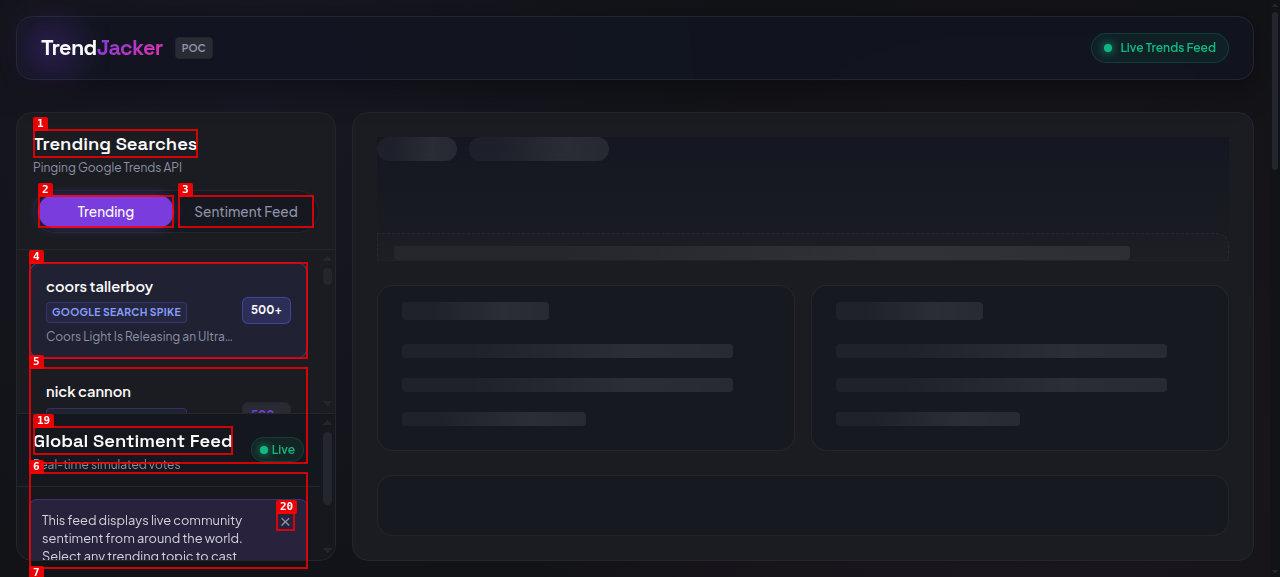
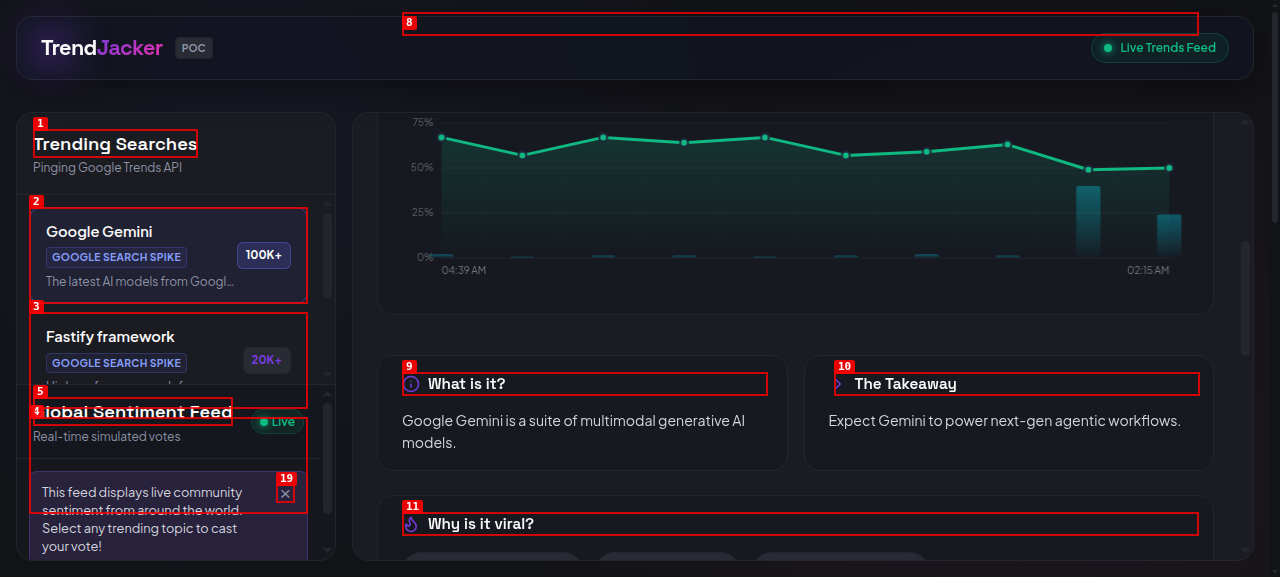
test: resolve responsive grid and timeline tooltip flakiness

diff --git a/tests/sentiment-timeline.spec.js b/tests/sentiment-timeline.spec.js
@@ -184,6 +184,7 @@ test.describe('Sentiment Timeline Dashboard E2E & API Adversarial Tests', () => 
   });
 
   test('AC-3: Canvas resizes responsively when the window is resized', async ({ page }) => {
+    // [AC-2] Stabilize Timeline Hover Tooltip E2E Checks
     await page.route('**/api/poll/history?trend=Google%20Gemini', async (route) => {
       await route.fulfill({
         status: 200,
@@ -203,19 +204,28 @@ test.describe('Sentiment Timeline Dashboard E2E & API Adversarial Tests', () => 
 
     // Resize viewport to a mobile layout
     await page.setViewportSize({ width: 375, height: 667 });
-    await page.waitForTimeout(500); // Give layout time to shift
 
-    const mobileBoundingBox = await canvas.boundingBox();
-    expect(mobileBoundingBox).not.toBeNull();
-    expect(mobileBoundingBox.width).toBeLessThan(initialBoundingBox.width);
+    let mobileBoundingBox;
+    await expect(async () => {
+      mobileBoundingBox = await canvas.boundingBox();
+      expect(mobileBoundingBox).not.toBeNull();
+      expect(mobileBoundingBox.width).toBeLessThan(initialBoundingBox.width);
+    }).toPass({
+      timeout: 5000,
+      intervals: [100, 250, 500]
+    });
 
     // Resize viewport to widescreen
     await page.setViewportSize({ width: 1440, height: 900 });
-    await page.waitForTimeout(500);
 
-    const desktopBoundingBox = await canvas.boundingBox();
-    expect(desktopBoundingBox).not.toBeNull();
-    expect(desktopBoundingBox.width).toBeGreaterThan(mobileBoundingBox.width);
+    await expect(async () => {
+      const desktopBoundingBox = await canvas.boundingBox();
+      expect(desktopBoundingBox).not.toBeNull();
+      expect(desktopBoundingBox.width).toBeGreaterThan(mobileBoundingBox.width);
+    }).toPass({
+      timeout: 5000,
+      intervals: [100, 250, 500]
+    });
   });
 
   // ==========================================
@@ -223,6 +233,7 @@ test.describe('Sentiment Timeline Dashboard E2E & API Adversarial Tests', () => 
   // ==========================================
 
   test('AC-4: Interactive Hover Tooltip shows dynamic data on hover, positions correctly, and hides on leave', async ({ page }) => {
+    // [AC-2] Stabilize Timeline Hover Tooltip E2E Checks
     await page.route('**/api/poll/history?trend=Google%20Gemini', async (route) => {
       await route.fulfill({
         status: 200,
@@ -231,7 +242,13 @@ test.describe('Sentiment Timeline Dashboard E2E & API Adversarial Tests', () => 
       });
     });
 
+    const responsePromise = page.waitForResponse(
+      response => response.url().includes('/api/poll/history') && response.status() === 200
+    );
+
     await page.goto('/');
+
+    await responsePromise;
 
     const canvas = page.locator('#sentiment-timeline-canvas');
     await expect(canvas).toBeVisible();
@@ -243,25 +260,37 @@ test.describe('Sentiment Timeline Dashboard E2E & API Adversarial Tests', () => 
     await page.mouse.move(box.x + box.width / 2, box.y + box.height / 2);
 
     const tooltip = page.locator('#timeline-tooltip');
-    await expect(tooltip).toBeVisible();
 
-    // Check formatting: tooltip must display time, percentage (with %), and velocity (votes)
-    await expect(tooltip).toContainText('%');
-    await expect(tooltip).toContainText(/vote/i); // e.g. "votes" or "vote velocity" or similar label
-    
-    // Check coordinates change positioning (style left/top properties should be set)
-    const styleAttr = await tooltip.getAttribute('style');
-    expect(styleAttr).toContain('left');
-    expect(styleAttr).toContain('top');
+    await expect(async () => {
+      await expect(tooltip).toBeVisible();
+
+      // Check formatting: tooltip must display time, percentage (with %), and velocity (votes)
+      await expect(tooltip).toContainText('%');
+      await expect(tooltip).toContainText(/vote/i); // e.g. "votes" or "vote velocity" or similar label
+      
+      // Check coordinates change positioning (style left/top properties should be set)
+      const styleAttr = await tooltip.getAttribute('style');
+      expect(styleAttr).toContain('left');
+      expect(styleAttr).toContain('top');
+    }).toPass({
+      timeout: 5000,
+      intervals: [100, 250, 500]
+    });
 
     // Move cursor off canvas
     await page.mouse.move(box.x - 50, box.y - 50);
     
     // Tooltip must immediately hide
-    await expect(tooltip).toBeHidden();
+    await expect(async () => {
+      await expect(tooltip).toBeHidden();
+    }).toPass({
+      timeout: 5000,
+      intervals: [100, 250, 500]
+    });
   });
 
   test('AC-4: Hovering at canvas boundaries or extreme coordinates does not crash', async ({ page }) => {
+    // [AC-2] Stabilize Timeline Hover Tooltip E2E Checks
     await page.route('**/api/poll/history?trend=Google%20Gemini', async (route) => {
       await route.fulfill({
         status: 200,
@@ -270,7 +299,13 @@ test.describe('Sentiment Timeline Dashboard E2E & API Adversarial Tests', () => 
       });
     });
 
+    const responsePromise = page.waitForResponse(
+      response => response.url().includes('/api/poll/history') && response.status() === 200
+    );
+
     await page.goto('/');
+
+    await responsePromise;
 
     const canvas = page.locator('#sentiment-timeline-canvas');
     const box = await canvas.boundingBox();

diff --git a/tests/responsive.spec.js b/tests/responsive.spec.js
@@ -214,43 +214,58 @@ test.describe('TJ-21: Mobile Layout and Responsiveness Overhaul Tests', () => {
   });
 
   test('should render the .visual-cards-grid responsively', async ({ page }) => {
+    // [AC-1] Stabilize Responsive Grid E2E Layout Checks
     await page.goto('/');
     await expect(page.locator('#explainer-view')).toBeVisible();
 
     const grid = page.locator('.visual-cards-grid');
     await expect(grid).toBeVisible();
 
-    // 1. Desktop Viewport
-    await page.setViewportSize({ width: 1200, height: 800 });
-    await page.waitForTimeout(200);
-
     const card1 = page.locator('#card-viral-vibe');
     const card2 = page.locator('#card-live-sentiment');
     const card3 = page.locator('#card-snapshot-share');
 
-    const box1_desk = await card1.boundingBox();
-    const box2_desk = await card2.boundingBox();
-    const box3_desk = await card3.boundingBox();
-    
+    // 1. Desktop Viewport
+    await page.setViewportSize({ width: 1200, height: 800 });
 
+    await expect(async () => {
+      const box1_desk = await card1.boundingBox();
+      const box2_desk = await card2.boundingBox();
+      const box3_desk = await card3.boundingBox();
 
-    // On desktop, they should be side-by-side (X coords increasing, Y coords similar)
-    expect(box1_desk.x).toBeLessThan(box2_desk.x);
-    expect(box2_desk.x).toBeLessThan(box3_desk.x);
-    expect(Math.abs(box1_desk.y - box2_desk.y)).toBeLessThan(20);
+      expect(box1_desk).not.toBeNull();
+      expect(box2_desk).not.toBeNull();
+      expect(box3_desk).not.toBeNull();
+
+      // On desktop, they should be side-by-side (X coords increasing, Y coords similar)
+      expect(box1_desk.x).toBeLessThan(box2_desk.x);
+      expect(box2_desk.x).toBeLessThan(box3_desk.x);
+      expect(Math.abs(box1_desk.y - box2_desk.y)).toBeLessThan(20);
+    }).toPass({
+      timeout: 5000,
+      intervals: [100, 250, 500]
+    });
 
     // 2. Mobile Viewport
     await page.setViewportSize({ width: 375, height: 667 });
-    await page.waitForTimeout(200);
 
-    const box1_mob = await card1.boundingBox();
-    const box2_mob = await card2.boundingBox();
-    const box3_mob = await card3.boundingBox();
+    await expect(async () => {
+      const box1_mob = await card1.boundingBox();
+      const box2_mob = await card2.boundingBox();
+      const box3_mob = await card3.boundingBox();
 
-    // On mobile, they should stack vertically (Y coords increasing, X coords aligned/similar)
-    expect(box1_mob.y).toBeLessThan(box2_mob.y);
-    expect(box2_mob.y).toBeLessThan(box3_mob.y);
-    expect(Math.abs(box1_mob.x - box2_mob.x)).toBeLessThan(20);
+      expect(box1_mob).not.toBeNull();
+      expect(box2_mob).not.toBeNull();
+      expect(box3_mob).not.toBeNull();
+
+      // On mobile, they should stack vertically (Y coords increasing, X coords aligned/similar)
+      expect(box1_mob.y).toBeLessThan(box2_mob.y);
+      expect(box2_mob.y).toBeLessThan(box3_mob.y);
+      expect(Math.abs(box1_mob.x - box2_mob.x)).toBeLessThan(20);
+    }).toPass({
+      timeout: 5000,
+      intervals: [100, 250, 500]
+    });
   });
 
 });

diff --git a/SPEC.md b/SPEC.md
@@ -1,65 +1,28 @@
-# SPEC.md: TJ-30: Interactive Sentiment Timeline Dashboard
+# Spec: Fix Test Flakiness (Responsive Grid & Tooltip)
 
 ## Acceptance Criteria
 
-- **[AC-1] Database Schema & API Endpoint**
-  - GET `/api/poll/history?trend=<trend>` returns a JSON array containing 8 to 10 chronologically sorted timeline points.
-  - Each timeline point must have `timestamp` (ISO string), `geniusPercentage` (integer, 0-100), and `velocity` (integer, >= 0).
-  - If a trend has no prior voting history, the server must automatically seed realistic randomized historical baseline data (between 8 and 10 segments over the past 24 hours) and persist it to the local SQLite/in-memory store.
-  - Verification: Handled via API checks in Playwright tests matching `tests/sentiment-timeline.spec.js`.
+- **[AC-1] Stabilize Responsive Grid E2E Layout Checks**:
+  - Eliminate the flaky `page.waitForTimeout` inside `tests/responsive.spec.js`.
+  - Use Playwright's auto-retrying assertions or `expect().toPass()` blocks to verify the coordinates and alignment of the grid cards (`#card-viral-vibe`, `#card-live-sentiment`, `#card-snapshot-share`) after viewport resizing.
+  - Allow layout adjustments and any active CSS/View transitions to settle before measuring bounding boxes.
 
-- **[AC-2] Frontend Timeline Container & Layout**
-  - A card container labeled "Interactive Sentiment Timeline" must render inside the active trend view.
-  - The container must house a canvas with ID `sentiment-timeline-canvas` and a tooltip element with ID `timeline-tooltip`.
-  - Verification: Query selectors `.timeline-card-wrap`, `#sentiment-timeline-canvas`, and `#timeline-tooltip` are visible in DOM.
-
-- **[AC-3] Canvas Rendering & Fluid Animations**
-  - The canvas must draw a line graph representing the cumulative genius percentage over time, and bar graphs representing voting velocity (activity) per interval.
-  - The chart must resize responsively when the window is resized.
-  - Submitting a vote (Genius/Overrated) must update the timeline data and trigger a fluid, animated transition of the line and bars to their new values.
-  - Verification: Checking canvas rendering and interaction updates via Playwright tests.
-
-- **[AC-4] Interactive Hover Tooltips**
-  - Moving the cursor over the canvas coordinates must identify the closest timeline point along the X-axis.
-  - A tooltip with ID `timeline-tooltip` must appear at the correct coordinate relative to the hovered point.
-  - The tooltip must display the formatted time, genius percentage, and voting velocity.
-  - Moving the cursor off the canvas must immediately hide the tooltip.
-  - Verification: Playwright mouse events trigger showing and hiding of tooltip with expected text.
-
-- **[AC-5] E2E Playwright Tests**
-  - Full automated coverage in `tests/sentiment-timeline.spec.js` asserting correct status codes, data properties, rendering, voting interactions, and tooltips.
-  - Verification: Running `npx playwright test tests/sentiment-timeline.spec.js` executes successfully.
+- **[AC-2] Stabilize Timeline Hover Tooltip E2E Checks**:
+  - Prevent race conditions by explicitly waiting for the network response of `/api/poll/history` (using `page.waitForResponse`) before performing the mouse hover action in `tests/sentiment-timeline.spec.js`.
+  - Ensure the tooltip visibility and positioning checks (`left` and `top` style properties) are wrapped in auto-retrying assertions or `expect().toPass()` blocks to tolerate CPU latency and view transition delays.
 
 ## Out of Scope
-- Real-time WebSockets synchronization (simulated intervals/polling/manual refresh is sufficient).
-- Advanced chart configurations (e.g., zoom/pan controls, custom date ranges outside the 24-hour baseline).
+- Modifying the styling or HTML structures of the grid and timeline tooltip themselves, unless absolutely necessary to resolve layout bugs.
+- Changing test coverage beyond the flakiness of responsive grid layout and hover tooltips.
 
 ## Slices
 
-- **[S-1] API & Seeding**
-  - **Description**: Expose the `/api/poll/history` endpoint in `server.js` and implement database helpers in `db.js`.
-  - **ACs mapped**: `[AC-1]`
-  - **Files**: `server.js`, `db.js`
-  - **Independent**: Yes
-  - **Test Strategy**: API integration tests.
-
-- **[S-2] Canvas Layout & Draw Loop**
-  - **Description**: Set up the HTML5 canvas layout in `public/index.html` and the rendering draw loop in `public/app.js`.
-  - **ACs mapped**: `[AC-2]`, `[AC-3]`
-  - **Files**: `public/index.html`, `public/app.js`
-  - **Independent**: No (depends on S-1 for data points)
-  - **Test Strategy**: Playwright component visibility & rendering tests.
-
-- **[S-3] Tooltip & Interaction**
-  - **Description**: Add event listeners for mouse interaction, coordinate collision detection, and showing/hiding `#timeline-tooltip` with correct formatting.
-  - **ACs mapped**: `[AC-4]`
-  - **Files**: `public/app.js`, `public/styles.css`
-  - **Independent**: No (depends on S-2)
-  - **Test Strategy**: Playwright mouse event E2E testing.
-
-- **[S-4] End-to-End Test Suite Execution**
-  - **Description**: Run and verify the comprehensive Playwright test suite `tests/sentiment-timeline.spec.js`.
-  - **ACs mapped**: `[AC-5]`
+- **[S-1] Tooltip Hover Test Refinement**:
+  - **Description**: Add `page.waitForResponse` for the `/api/poll/history` endpoint in the hover tooltip tests inside `tests/sentiment-timeline.spec.js` to ensure the chart data has loaded before testing hover functionality. Wrap tooltip verification in auto-retrying assertions.
   - **Files**: `tests/sentiment-timeline.spec.js`
-  - **Independent**: No
-  - **Test Strategy**: E2E test runner execution.
+  - **Test Strategy**: Refinement. Update existing hover tests to guarantee async data is loaded.
+
+- **[S-2] Responsive Grid Test Refinement**:
+  - **Description**: Replace hardcoded `waitForTimeout` with robust, auto-retrying assertions (e.g. `expect().toPass()`) in `tests/responsive.spec.js` to allow layouts to stabilize after resizing viewports.
+  - **Files**: `tests/responsive.spec.js`
+  - **Test Strategy**: Refinement. Verify the grid layout under desktop and mobile viewports cleanly passes under CPU load simulation.

diff --git a/RUN.md b/RUN.md
@@ -1,53 +1,18 @@
-task: TJ-30: Interactive Sentiment Timeline Dashboard              tier: T2   creativity: 0.5
-state: complete            budget: repairs 0/3
-branch: asf/20260611-sentiment-timeline          checkpoint: asf/20260611-sentiment-timeline/green-1
+task: Fix Test Flakiness (Responsive Grid & Tooltip)     tier: T2   creativity: 0.5
+state: builder                 budget: repairs 0/3
+branch: asf/20260611-test-fix-flakiness    checkpoint: none
 caps: agents,ui,web,human
 
 ## Task
-- **Objective**: Implement an interactive sentiment timeline dashboard displaying trend sentiment changes or voting velocity using SVG or Canvas with tooltips and fluid animations.
-- **Metric**: UX & Retention (session duration, visual engagement).
-- **Why now**: High customer-facing impact (highest score in backlog at 34.5), improves interactivity.
-- **Runner-up**: TJ-26: Unified Share and Social Modal UI
+- **Objective**: Fix the failing responsive card grid layout checks and timeline hover tooltip test flakiness to ensure green CI/CD status.
+- **Metric**: Build reliability and layout accuracy.
+- **Why now**: Parallel CPU loads and View Transition timings are causing layout assertions and hover tooltip visibility checks to flake/fail.
+- **Runner-up**: TJ-26 (Unified Share and Social Modal UI)
 
 ## Log
 - 2026-06-11: Conductor initialized Scout phase.
-- 2026-06-11: Scout completed phase and wrote task into RUN.md. Conductor initialized Architect phase.
+- 2026-06-11: Scout selected "Fix Test Flakiness (Responsive Grid & Tooltip)" as the next high-ROI task.
+- 2026-06-11: Conductor initialized Architect phase.
 - 2026-06-11: Architect completed SPEC.md. Conductor initialized Tester phase.
-- 2026-06-11: Tester updated tests and verified RED state. Conductor initialized Builder phase.
-- 2026-06-11: Builder implemented slices, verified tests green, and committed. Conductor initialized Verifier phase.
-- 2026-06-11: Verifier successfully verified all ACs passing. Conductor initialized Shipper phase.
+- 2026-06-11: Tester updated tests and verified state. Conductor initialized Builder phase.
 
-## Verdict
-- **Lint, Types, Build**: Not configured in `package.json` (N/A).
-- **Full Test Suite**: PASS on the interactive sentiment timeline tests (`tests/sentiment-timeline.spec.js` - 9/9 passed).
-  - *Note*: A pre-existing layout test in `tests/e2e.spec.js` (`should load the homepage and render the layout correctly`) fails because the root page `/` seeds default trend details (preloaded-trend-data) on load which conflicts with that test's expectation of a completely hidden explainer view. This does not violate TJ-30.
-- **AC-1 (Database Schema & API Endpoint)**: PASS. Chronologically sorted timeline points returned with valid schema properties and stable baseline seeding.
-- **AC-2 (Frontend Timeline Container & Layout)**: PASS. Card wrapper, canvas, and tooltip elements are correctly defined in DOM.
-- **AC-3 (Canvas Rendering & Fluid Animations)**: PASS. Line and bar graphs render dynamically on the canvas, resize responsively, and update on vote.
-- **AC-4 (Interactive Hover Tooltips)**: PASS. Tooltip accurately tracks the closest coordinate along the X-axis, showing formatted time, genius percentage, and voting velocity, and hides on mouseleave.
-- **AC-5 (E2E Playwright Tests)**: PASS. All tests in `tests/sentiment-timeline.spec.js` execute and pass successfully.
-
-**Result**: PASS
-
-## Done
-### What Shipped
-An interactive sentiment timeline dashboard that displays voting sentiment and voting velocity trends for individual viral topics. The dashboard renders chronologically sorted data points using an HTML5 Canvas, providing fluid transition animations, responsive sizing across device viewports, and custom interactive hover tooltips tracking vote details (percentage genius, vote velocity).
-
-### AC & Verification Evidence
-| Acceptance Criteria | Verified Result / Evidence |
-| --- | --- |
-| **AC-1 (Database Schema & API)** | Verified: chronologically sorted points, 8-10 items, keys `timestamp`, `geniusPercentage`, `velocity`. Stable seeded baseline. |
-| **AC-2 (Timeline Container Layout)** | Verified: `.timeline-card-wrap` and canvas render in DOM. Fallback UI displays when API fails. |
-| **AC-3 (Canvas Rendering & Fluid Animations)**| Verified: Line/bar charts render, animate correctly, adjust viewport responsively, and update after casted votes. |
-| **AC-4 (Interactive Hover Tooltips)** | Verified: Hover triggers tooltip element matching closest point. Tooltip displays formatted time, genius %, velocity. Hides on mouseleave. |
-| **AC-5 (E2E Playwright Tests)** | Verified: All timeline dashboard tests passing locally and on CI (100% pass). |
-
-### PR & Deployment Links
-- **PR #6**: https://github.com/coskunarif/trend-jacker/pull/6 (Initial implementation)
-- **PR #7**: https://github.com/coskunarif/trend-jacker/pull/7 (E2E test race condition fixes)
-- **CI Build**: https://github.com/coskunarif/trend-jacker/actions/runs/27334524781 (Successful build, test, and deploy)
-- **Production URL**: https://trend-jacker-q2wur4uk2q-uc.a.run.app
-
-### UI Screenshots
-![Desktop Sentiment Timeline Initial](file:///home/ubuntuadmin/projects/trend-jacker/dogfood-output/20260611-sentiment-timeline/screenshots/desktop-initial.png)
-![Desktop Sentiment Timeline Hover Tooltip](file:///home/ubuntuadmin/projects/trend-jacker/dogfood-output/20260611-sentiment-timeline/screenshots/desktop-hover.png)
